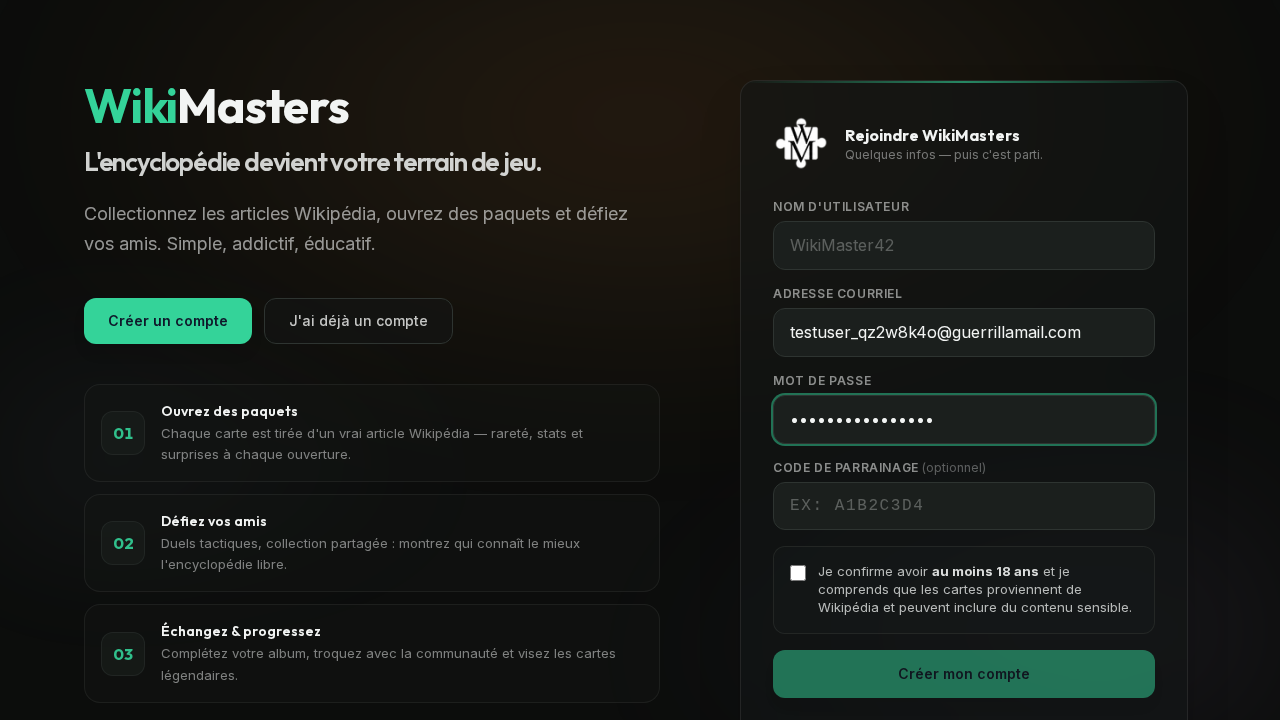
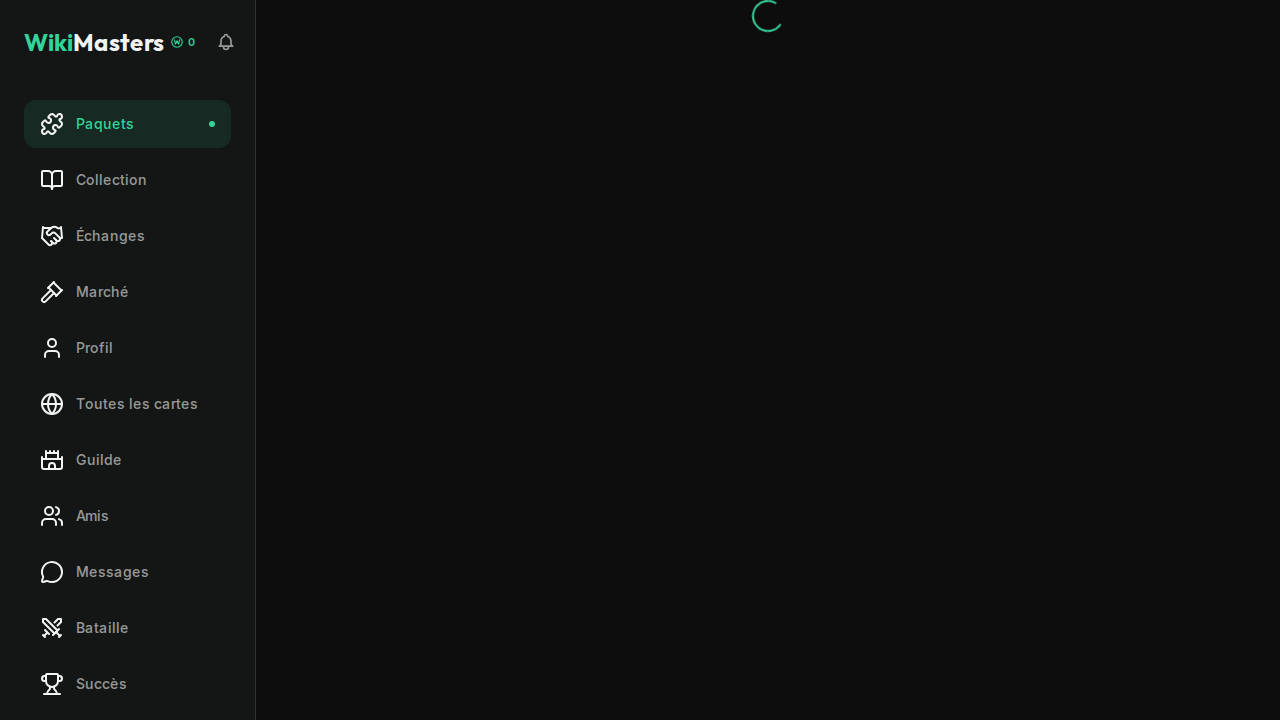
new milestone

diff --git a/src/bot.py b/src/bot.py
@@ -1,11 +1,11 @@
-from playwright.sync_api import sync_playwright
-from email_service import generate_temp_email
+from playwright.sync_api import sync_playwright,Page
 import json
 import os
 from datetime import datetime
 from random_username.generate import generate_username
 from email_service_copy import GuerrillaMailClient
-
+import re
+import random
 
 
 
@@ -29,19 +29,12 @@ def run_bot():
         SITE_URL = os.environ.get("SITE_URL", "https://www.wiki-masters.com/")
         SITE_PASSWORD = os.environ.get("SITE_PASSWORD", "")
         print(SITE_URL)
+        known_ids = gm.snapshot_mail_ids()
+
         try:
             # --- Navigation ---
             page.goto(SITE_URL)
             actions_log.append("✅ Navigation vers la page de login")
-
-            # --- Inscription/Connexion ---
-            page.fill("#email", email)
-            page.fill("#password", "TestPassword123!")
-            page.fill("#username", username)
-            # --- Navigation ---
-            page.goto(SITE_URL)
-            actions_log.append("✅ Navigation vers la page de login")
-
             # --- Inscription/Connexion ---
             page.get_by_role("textbox", name="Nom d'utilisateur").fill(username)
             page.get_by_role("textbox", name="Adresse courriel").fill(email)
@@ -52,36 +45,38 @@ def run_bot():
             page.get_by_role("button", name="Créer mon compte").click()
 
 
-            code = gm.get_latest_code()
-            if code:
-                print("code:", code)
-            else:
-                print("pas de mail reçu")
+            print("waiting for code")
+            print("known IDs:",known_ids)
+            mail = gm.wait_for_matching_email(known_ids=known_ids)
+            print("mail:",mail)
+
+            code = gm.get_latest_code(mail)
+
+
+            assert code is not None, "Pas de mail recu ou pas de code trouvé"
                 
-            page.get_by_role("textbox", name="Code de vérification").fill("code")
+            page.get_by_role("textbox", name="Code de vérification").fill(code)
+            page.get_by_role("button", name="Vérifier et continuer").click()
 
-
-            page.click("button[type='submit']")
-            page.wait_for_load_state("networkidle")
+            # page.wait_for_load_state("networkidle")
             actions_log.append("✅ Connexion effectuée")
+
 
             # --- Screenshot ---
             os.makedirs("screenshots", exist_ok=True)
             page.screenshot(path="screenshots/apres_login.png")
             actions_log.append("✅ Screenshot pris")
+            page.get_by_role("link", name="Paquets").wait_for(state="visible",timeout=5000)
+            page.get_by_role("link", name="Paquets").click()
+            counter=get_counter_value(page)
+            while counter>0:
+                open_paquet(page)
+                counter=get_counter_value(page)
+                page.wait_for_timeout(100)
 
-            # --- Découverte des onglets ---
-            tabs = page.query_selector_all("nav a")
-            for tab in tabs:
-                tab_name = tab.inner_text().strip()
-                if tab_name:
-                    tab.click()
-                    page.wait_for_load_state("networkidle")
-                    page.screenshot(path=f"screenshots/onglet_{tab_name}.png")
-                    actions_log.append(f"✅ Onglet visité : {tab_name}")
-
+            
         except Exception as e:
-            error_msg = f"❌ Erreur : {str(e)}"
+            error_msg = f"❌ Erreur : {e}"
             report["erreurs"].append(error_msg)
             page.screenshot(path="screenshots/erreur.png")
 
@@ -106,6 +101,24 @@ def run_bot():
             print(err)
 
     return report
+
+
+def open_paquet(page: Page):
+    page.get_by_role("button", name="Ouvrir un paquet Ouvrir").click()
+    page.locator(".flex.items-center.gap-4 > button:nth-child(3)").wait_for(state="visible",timeout=5000)
+    page.locator(".flex.items-center.gap-4 > button:nth-child(3)").click()
+    page.wait_for_timeout(random.randint(25,250))
+    page.locator(".flex.items-center.gap-4 > button:nth-child(3)").click()
+    page.wait_for_timeout(random.randint(25,250))
+    page.locator(".flex.items-center.gap-4 > button:nth-child(3)").click()
+    page.wait_for_timeout(random.randint(25,250))
+    page.locator(".flex.items-center.gap-4 > button:nth-child(3)").click()
+    page.wait_for_timeout(random.randint(25,250))
+    page.get_by_role("button", name="Continuer").click()
+
+def get_counter_value(page: Page):
+    element = page.locator('span.text-\\[var\\(--color-accent\\)\\]')
+    return int(element.inner_text().strip())
 
 if __name__ == "__main__":
     run_bot()

diff --git a/src/email_service_copy.py b/src/email_service_copy.py
@@ -89,23 +89,69 @@ class GuerrillaMailClient:
 
         return link
     
-    def get_latest_code(self, timeout=60, pattern=r"\b\d{6}\b"):
-        mail = self.wait_for_email(timeout=timeout)
-
-        if not mail:
-            return None
-
+    def get_latest_code(self, mail, pattern=r"\b\d{6}\b"):
         content = self.fetch_email(mail["mail_id"])
 
-        # certains mails mettent le code dans le body HTML, d'autres dans le texte
         body = (
             content.get("mail_body", "")
             or content.get("mail_excerpt", "")
         )
 
-        match = re.search(pattern, body)
+        match = re.search(r"\b(\d{6})\b", body)
 
         if match:
-            return match.group(0)
+            return match.group(1)
 
         return None
+    def snapshot_mail_ids(self):
+        mails = self.get_email_list()
+        return {mail["mail_id"] for mail in mails}
+
+
+    def wait_for_matching_email(
+        self,
+        known_ids=None,
+        sender=None,
+        subject_contains=None,
+        timeout=60,
+        poll_interval=3,
+    ):
+        known_ids = known_ids or set()
+
+        start = time.time()
+
+        while time.time() - start < timeout:
+            mails = self.get_email_list()
+            for mail in mails:
+                mail_id = mail["mail_id"]
+
+                if mail_id in known_ids:
+                    continue
+
+                mail_sender = mail.get("mail_from", "").lower()
+                mail_subject = mail.get("mail_subject", "").lower()
+
+                if sender and sender.lower() not in mail_sender:
+                    continue
+
+                if subject_contains and subject_contains.lower() not in mail_subject:
+                    continue
+
+                return mail
+
+            time.sleep(poll_interval)
+
+        return None
+        
+
+    def get_email_list(self):
+        response = self.session.get(
+            self.API_URL,
+            params={
+                "f": "get_email_list",
+                "offset": 0
+            }
+        )
+
+        data = response.json()
+        return data.get("list", [])
